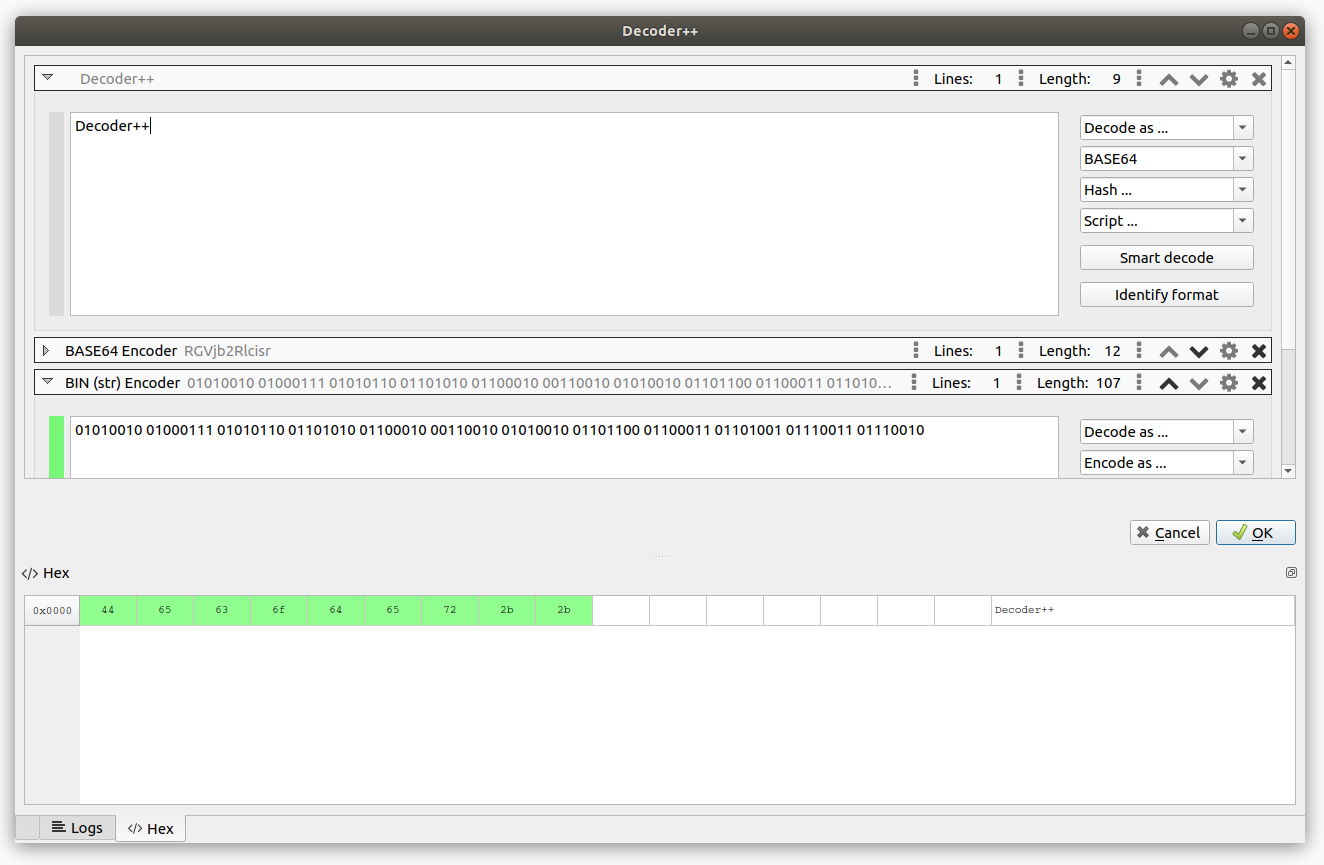
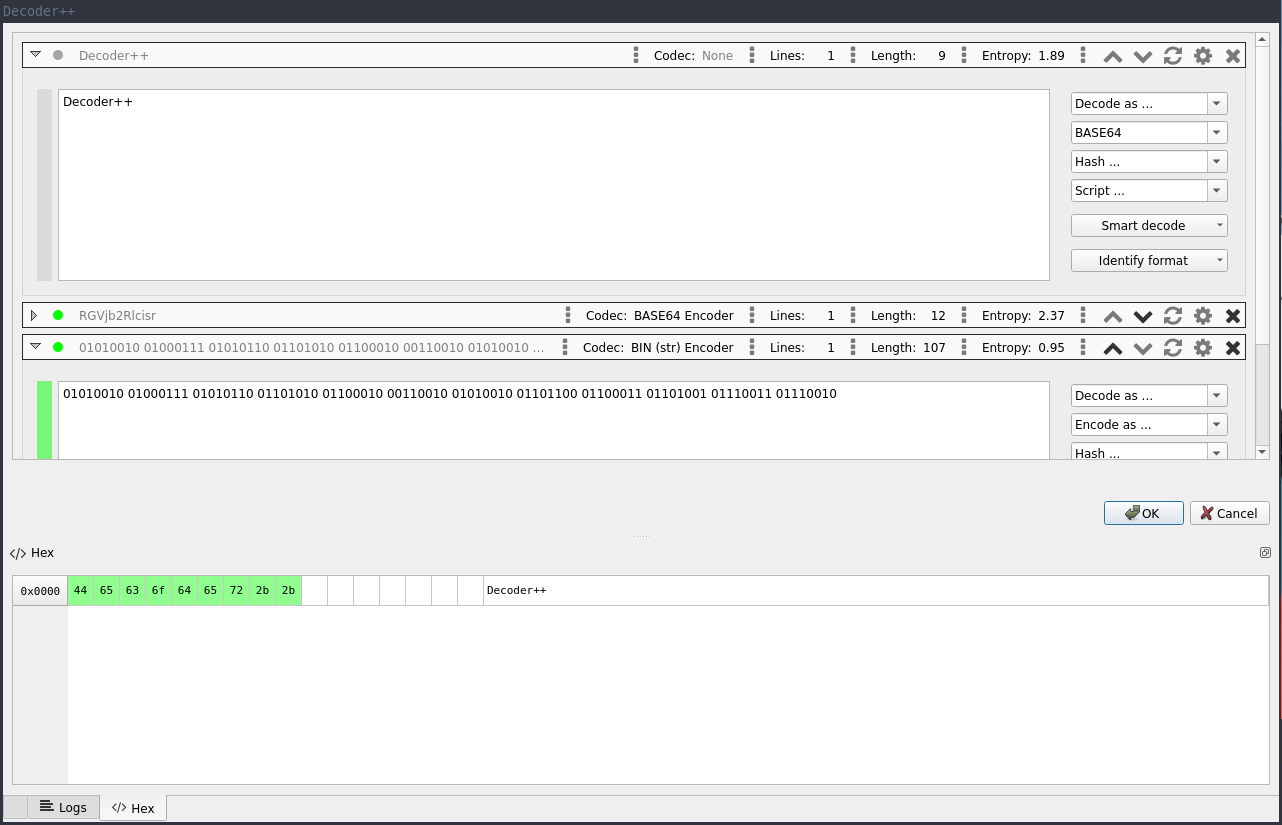
#49 Prepare 1.5 release Updated dependencies. Updated screenshots. Readded hex and log docks to decoder++ dialog. Fixed frame headings which were declared as non-clickable preventing toggle on click. Fixed wrong dependency declaration in KECCAK 224 plugin. Adjusted debug and trace log format to retr

Changed region(s): [[0.0, 0.0, 1.0, 1.0], [0.7488, 0.697, 0.8112, 0.7273]]

diff --git a/dpp/ui/view/classic/combo_box_frame.py b/dpp/ui/view/classic/combo_box_frame.py
@@ -34,22 +34,21 @@ class ComboBoxFrame(QFrame):
         super(ComboBoxFrame, self).__init__(parent)
         self._context = context
         self._plugins = context.plugins()
-        self._plugin_history = {}
+
+        # Cache for remembering configurations of selected plugins.
+        self._plugin_cache = {}
+
+        # Initialize combo boxes.
         layout = QVBoxLayout()
-        self._decoder_combo = self._init_combo_box("Decode as ...", PluginType.DECODER)
-        self._encoder_combo = self._init_combo_box("Encode as ...", PluginType.ENCODER)
-        self._hasher_combo = self._init_combo_box("Hash ...", PluginType.HASHER)
-        self._script_combo = self._init_combo_box("Script ...", PluginType.SCRIPT)
         self._combo_boxes = {
-            PluginType.DECODER: self._decoder_combo,
-            PluginType.ENCODER: self._encoder_combo,
-            PluginType.HASHER: self._hasher_combo,
-            PluginType.SCRIPT: self._script_combo
+            PluginType.DECODER: self._init_combo_box("Decode as ...", PluginType.DECODER),
+            PluginType.ENCODER: self._init_combo_box("Encode as ...", PluginType.ENCODER),
+            PluginType.HASHER: self._init_combo_box("Hash ...", PluginType.HASHER),
+            PluginType.SCRIPT: self._init_combo_box("Script ...", PluginType.SCRIPT)
         }
-        layout.addWidget(self._decoder_combo)
-        layout.addWidget(self._encoder_combo)
-        layout.addWidget(self._hasher_combo)
-        layout.addWidget(self._script_combo)
+        for codec_combo_box in self._combo_boxes.values():
+            layout.addWidget(codec_combo_box)
+
         layout.setContentsMargins(0, 0, 0, 0)
         self.setLayout(layout)
         self._combo_box_selection_history = []
@@ -122,11 +121,11 @@ class ComboBoxFrame(QFrame):
         try:
             combo_box = self._combo_boxes[combo_box_type]
             name = combo_box.itemText(index)
-            plugin = copy.deepcopy(self._plugins.plugin(name, combo_box_type))
-            if plugin in self._plugin_history:
-                plugin = self._plugin_history[plugin]
+            plugin = self._plugins.plugin(name, combo_box_type).clone()
+            if plugin in self._plugin_cache:
+                plugin = self._plugin_cache[plugin]
             else:
-                self._plugin_history[plugin] = plugin
+                self._plugin_cache[plugin] = plugin
             return plugin
         except Exception as e:
             self._context.logger.error("Unexpected error. {}".format(e))
@@ -177,7 +176,7 @@ class ComboBoxFrame(QFrame):
     def resetAll(self):
         """ Resets all combo-boxes to show the first element. """
         self._context.logger.debug("ComboBoxFrame:ResetAll")
-        self._reset(self._decoder_combo, self._encoder_combo, self._hasher_combo, self._script_combo)
+        self._reset(*self._combo_boxes.values())
 
     def setToolTip(self, tooltip: str, combo_box_type: str = None):
         """ Setup's the tooltip of the combo-box associated with the specified plugin-type.

diff --git a/dpp/ui/view/classic/codec_frame_header.py b/dpp/ui/view/classic/codec_frame_header.py
@@ -88,24 +88,24 @@ class CodecFrameHeader(QFrame):
             frm = QFrame(self)
             frm_layout = QHBoxLayout()
             frm_layout.setContentsMargins(0, 0, 0, 0)
-            lbl_label = QLabel('Codec: ')
+            lbl_label = QLabel('Codec:')
             frm_layout.addWidget(lbl_label)
-            self._lbl_title = QLabel(self.codec_frame.title())
-            self._lbl_title.setTextFormat(Qt.PlainText)
-            self._lbl_title.setToolTip(self.codec_frame.description())
-            frm_layout.addWidget(self._lbl_title)
+            self._lbl_value = QLabel(self.codec_frame.title())
+            self._lbl_value.setTextFormat(Qt.PlainText)
+            self._lbl_value.setToolTip(self.codec_frame.description())
+            frm_layout.addWidget(self._lbl_value)
             frm.setLayout(frm_layout)
             return frm
 
         def refresh(self):
             title = self.codec_frame.title()
             if title:
-                self._lbl_title.setText(title)
-                self._lbl_title.setStyleSheet('')
+                self._lbl_value.setText(title)
+                self._lbl_value.setStyleSheet('')
             else:
                 # No codec selected.
-                self._lbl_title.setText('None')
-                self._lbl_title.setStyleSheet('QLabel { color: gray }')
+                self._lbl_value.setText('None')
+                self._lbl_value.setStyleSheet('QLabel { color: gray }')
 
     class ContentPreviewHeaderItem(AbstractCodecFrameHeaderItem):
 
@@ -142,7 +142,7 @@ class CodecFrameHeader(QFrame):
             else:
                 self._content_preview_text.setText('No Preview Available')
 
-    class LineCountInfoHeaderItem(ClickableCodecFrameHeaderItem):
+    class LineCountInfoHeaderItem(AbstractCodecFrameHeaderItem):
 
         def __init__(self, codec_frame: 'ui.codec_frame.CodecFrame'):
             super(__class__, self).__init__(codec_frame)
@@ -167,7 +167,7 @@ class CodecFrameHeader(QFrame):
             line_count = str((content and len(content.split('\n'))) or 0)
             self._txt_value.setText(line_count)
 
-    class ContentLengthInfoHeaderItem(ClickableCodecFrameHeaderItem):
+    class ContentLengthInfoHeaderItem(AbstractCodecFrameHeaderItem):
 
         def __init__(self, codec_frame: 'ui.codec_frame.CodecFrame'):
             super(__class__, self).__init__(codec_frame)
@@ -192,7 +192,7 @@ class CodecFrameHeader(QFrame):
             length = str((content and len(content)) or 0)
             self._txt_value.setText(length)
 
-    class EntropyInfoHeaderItem(ClickableCodecFrameHeaderItem):
+    class EntropyInfoHeaderItem(AbstractCodecFrameHeaderItem):
 
         def __init__(self, codec_frame: 'ui.codec_frame.CodecFrame'):
             super(__class__, self).__init__(codec_frame)

diff --git a/dpp/ui/decoder_plus_plus_gui.py b/dpp/ui/decoder_plus_plus_gui.py
@@ -20,9 +20,13 @@ from qtpy.QtCore import Qt
 from qtpy.QtGui import QIcon
 from qtpy.QtWidgets import QMainWindow, QFrame, QDialogButtonBox, QShortcut, QVBoxLayout
 
+from dpp.core import Context
 from dpp.core.shortcuts import KeySequence
+from dpp.ui.dock.hex_dock import HexDock
+from dpp.ui.dock.log_dock import LogDock
 from dpp.ui.view.classic.classic_main_window_widget import ClassicMainWindowWidget
 from dpp.ui.view.classic import CodecTab
+from dpp.ui.widget.dock_tabs_widget import DockTabsWidget
 
 
 class DecoderPlusPlusGui(QMainWindow):
@@ -95,6 +99,11 @@ class DecoderPlusPlusDialog(DecoderPlusPlusGui):
         self.centralWidget().layout().addWidget(self._codec_tab_widget)
         self.centralWidget().layout().addWidget(self._init_button_box())
 
+        # Initialize docks
+        self._log_dock_widget = LogDock(self.docksWidget(), context.logger)
+        self.docksWidget().registerDockWidget(Context.DockWidget.LOG_DOCK_WIDGET, self._log_dock_widget)
+        self.docksWidget().registerDockWidget(Context.DockWidget.HEX_DOCK_WIDGET, HexDock(context, self))
+
         # Setup additional shortcuts to allow user to quickly hit the accept button.
         self._setup_shortcuts()
 
@@ -120,6 +129,11 @@ class DecoderPlusPlusDialog(DecoderPlusPlusGui):
         button_box.rejected.connect(self.onReject)
         button_box.setContentsMargins(0, 35, 0, 0)
         return button_box
+
+    def docksWidget(self) -> DockTabsWidget:
+        if not hasattr(self, '_docks_widget'):
+            self._docks_widget = DockTabsWidget(self, self._context)
+        return self._docks_widget
 
     def onAccept(self):
         # Return the transformed input when user triggered the OK-button.

diff --git a/dpp/core/plugin/__init__.py b/dpp/core/plugin/__init__.py
@@ -241,19 +241,12 @@ class AbstractPlugin:
     def __hash__(self):
         return hash(self.__key())
 
-    def __deepcopy__(self, memo):
-        """ Makes a deep copy of the option while reusing callable's. """
-        cls = self.__class__
-        result = cls.__new__(cls)
-        memo[id(self)] = result
-        for k, v in self.__dict__.items():
-            setattr(result, k, v if callable(v) else copy.deepcopy(v, memo))
-        return result
-
     def clone(self, config: PluginConfig = None) -> 'AbstractPlugin':
-        plugin = copy.deepcopy(self)
+        plugin = self.__class__(context=self._context)
         if config:
             plugin._config = config
+        else:
+            plugin._config = self._config.clone()
         return plugin
 
     def toDict(self):

diff --git a/dpp/core/plugin/builder.py b/dpp/core/plugin/builder.py
@@ -37,7 +37,7 @@ class PluginBuilder:
                 clazz = value.pop("clazz")
                 value["label"] = plugin.config.Label(value["label"]["key"], value["label"]["name"])
                 value.pop("is_initialized")
-                mod = __import__('dpp.core.plugins.config.options', fromlist=[clazz])
+                mod = __import__('dpp.core.plugin.config.options', fromlist=[clazz])
                 result[name] = getattr(mod, clazz)(**value)
             except:
                 raise Exception("Error while loading plugin configuration!")

diff --git a/dpp/core/logger.py b/dpp/core/logger.py
@@ -26,8 +26,8 @@ console_logger = None
 
 def _get_log_format(level: int) -> str:
     """ Returns the log format for the specified log level. """
-    if level == logging.DEBUG:
-        return f'%(asctime)s: %(levelname)7s: %(msg)s'
+    if level == logging.DEBUG or level == logging.TRACE:
+        return f'%(asctime)s: %(levelname)7s: %(filename)s:%(lineno)s:%(funcName)s: %(msg)s'
     else:
         return f'%(asctime)s: %(levelname)7s: %(msg)s'
 

diff --git a/setup.py b/setup.py
@@ -54,7 +54,7 @@ setup(
     ],
     extras_require={
         'qt5': ['PyQt5<5.16'],
-        'qt6': ['PyQt6<6.2.0'],
+        'qt6': ['PyQt6<6.3.0'],
         'extras': [
             'base45>=0.4.0',
             'css-html-js-minify>=2.5.0',
@@ -66,6 +66,7 @@ setup(
             'jwt>=1.3.0',
             'passlib>=1.7.0',
             'pycryptodome>=3.15.0',
+            'validators>=0.20.0'
         ]
     },
     data_files=[

diff --git a/dpp/plugins/keccak224_hasher.py b/dpp/plugins/keccak224_hasher.py
@@ -34,7 +34,7 @@ class Plugin(HasherPlugin):
 
     def __init__(self, context: 'dpp.core.context.Context'):
         # Name, Author, Dependencies
-        super().__init__('KECCAK 224', "Thomas Engel", ["cryptodome"], context)
+        super().__init__('KECCAK 224', "Thomas Engel", ["pycryptodome"], context)
 
     def run(self, input_text: str) -> str:
         from Crypto.Hash import keccak

diff --git a/docs/INSTALL.md b/docs/INSTALL.md
@@ -1,6 +1,6 @@
 # Decoder++ Installation Guide
 
-The following sections provide additional information about how Decoder++ can be installed on various Systems.
+The following sections provide information about how Decoder++ can be installed on various Systems.
 
 ## Ubuntu
 
@@ -12,7 +12,7 @@ apt-get install -y python3 python3-pip git \
   libgl1 libxcb-xinerama0
 git clone https://github.com/bytebutcher/decoder-plus-plus/
 cd decoder-plus-plus
-pip3 install --upgrade pip && pip3 install decoder-plus-plus[qt6] decoder-plus-plus-extras
+pip3 install --upgrade pip && pip3 install decoder-plus-plus[qt6] decoder-plus-plus[extras]
 ```
 
 ### Qt5
@@ -21,7 +21,7 @@ apt-get update
 apt-get install -y python3 python3-pip git qt5-default libgl1 libxcb-xinerama0
 git clone https://github.com/bytebutcher/decoder-plus-plus/
 cd decoder-plus-plus
-pip3 install --upgrade pip && pip3 install decoder-plus-plus[qt5]  decoder-plus-plus-extras
+pip3 install --upgrade pip && pip3 install decoder-plus-plus[qt5]  decoder-plus-plus[extras]
 ```
 
 ## Git
@@ -29,13 +29,13 @@ pip3 install --upgrade pip && pip3 install decoder-plus-plus[qt5]  decoder-plus-
 ### Qt6
 ```bash
 git clone https://github.com/bytebutcher/decoder-plus-plus
-pip3 install decoder-plus-plus/.[qt6]
+pip3 install decoder-plus-plus/.[qt6] decoder-plus-plus/.[extras]
 ```
 
 ### Qt5
 ```bash
 git clone https://github.com/bytebutcher/decoder-plus-plus
-pip3 install decoder-plus-plus/.[qt5]
+pip3 install decoder-plus-plus/.[qt5] decoder-plus-plus/.[extras]
 ```
 
 ## Docker container
@@ -44,12 +44,12 @@ pip3 install decoder-plus-plus/.[qt5]
 ```bash
 git clone https://github.com/bytebutcher/decoder-plus-plus
 cd decoder-plus-plus/docker
-bash docker-build-dpp qt6 && bash docker-run-dpp qt6
+bash docker-dpp-build qt6 && bash docker-dpp-run qt6
 ```
 
 ### Qt5
 ```bash
 git clone https://github.com/bytebutcher/decoder-plus-plus
 cd decoder-plus-plus/docker
-bash docker-build-dpp qt5 && bash docker-run-dpp qt5
+bash docker-dpp-build qt5 && bash docker-dpp-run qt5
 ```

diff --git a/README.md b/README.md
@@ -21,9 +21,9 @@ pip3 install decoder-plus-plus[qt5]
 ```
 
 Note, that this will install ```Decoder++``` and the most common plugins.
-In order to install and use all available plugins the package ```decoder-plus-plus-extras``` needs to be installed:
+In order to install and use all available plugins the package ```decoder-plus-plus[extras]``` needs to be installed:
 ```
-pip3 install decoder-plus-plus-extras
+pip3 install decoder-plus-plus[extras]
 ```
 
 Please refer to the [Installation Guide](docs/INSTALL.md) for more information regarding individual setups. 
